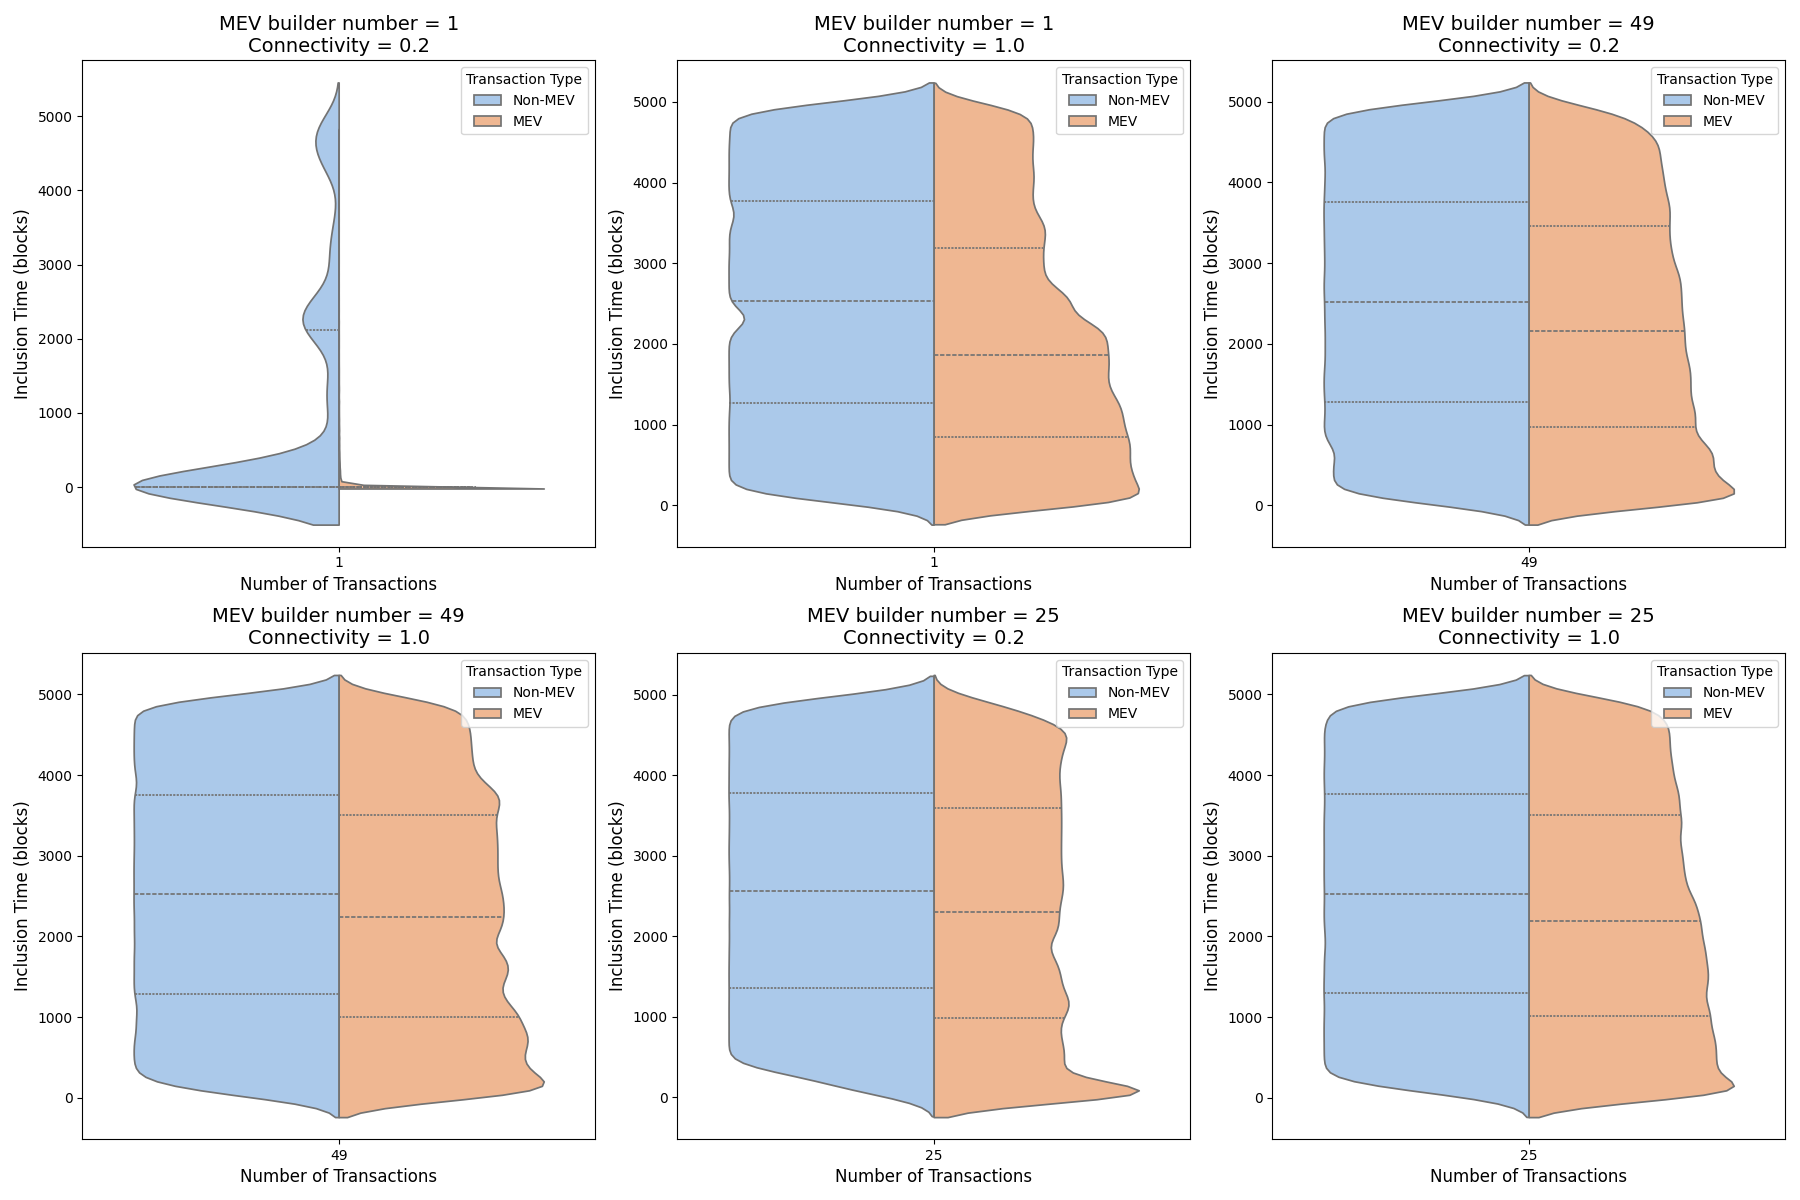
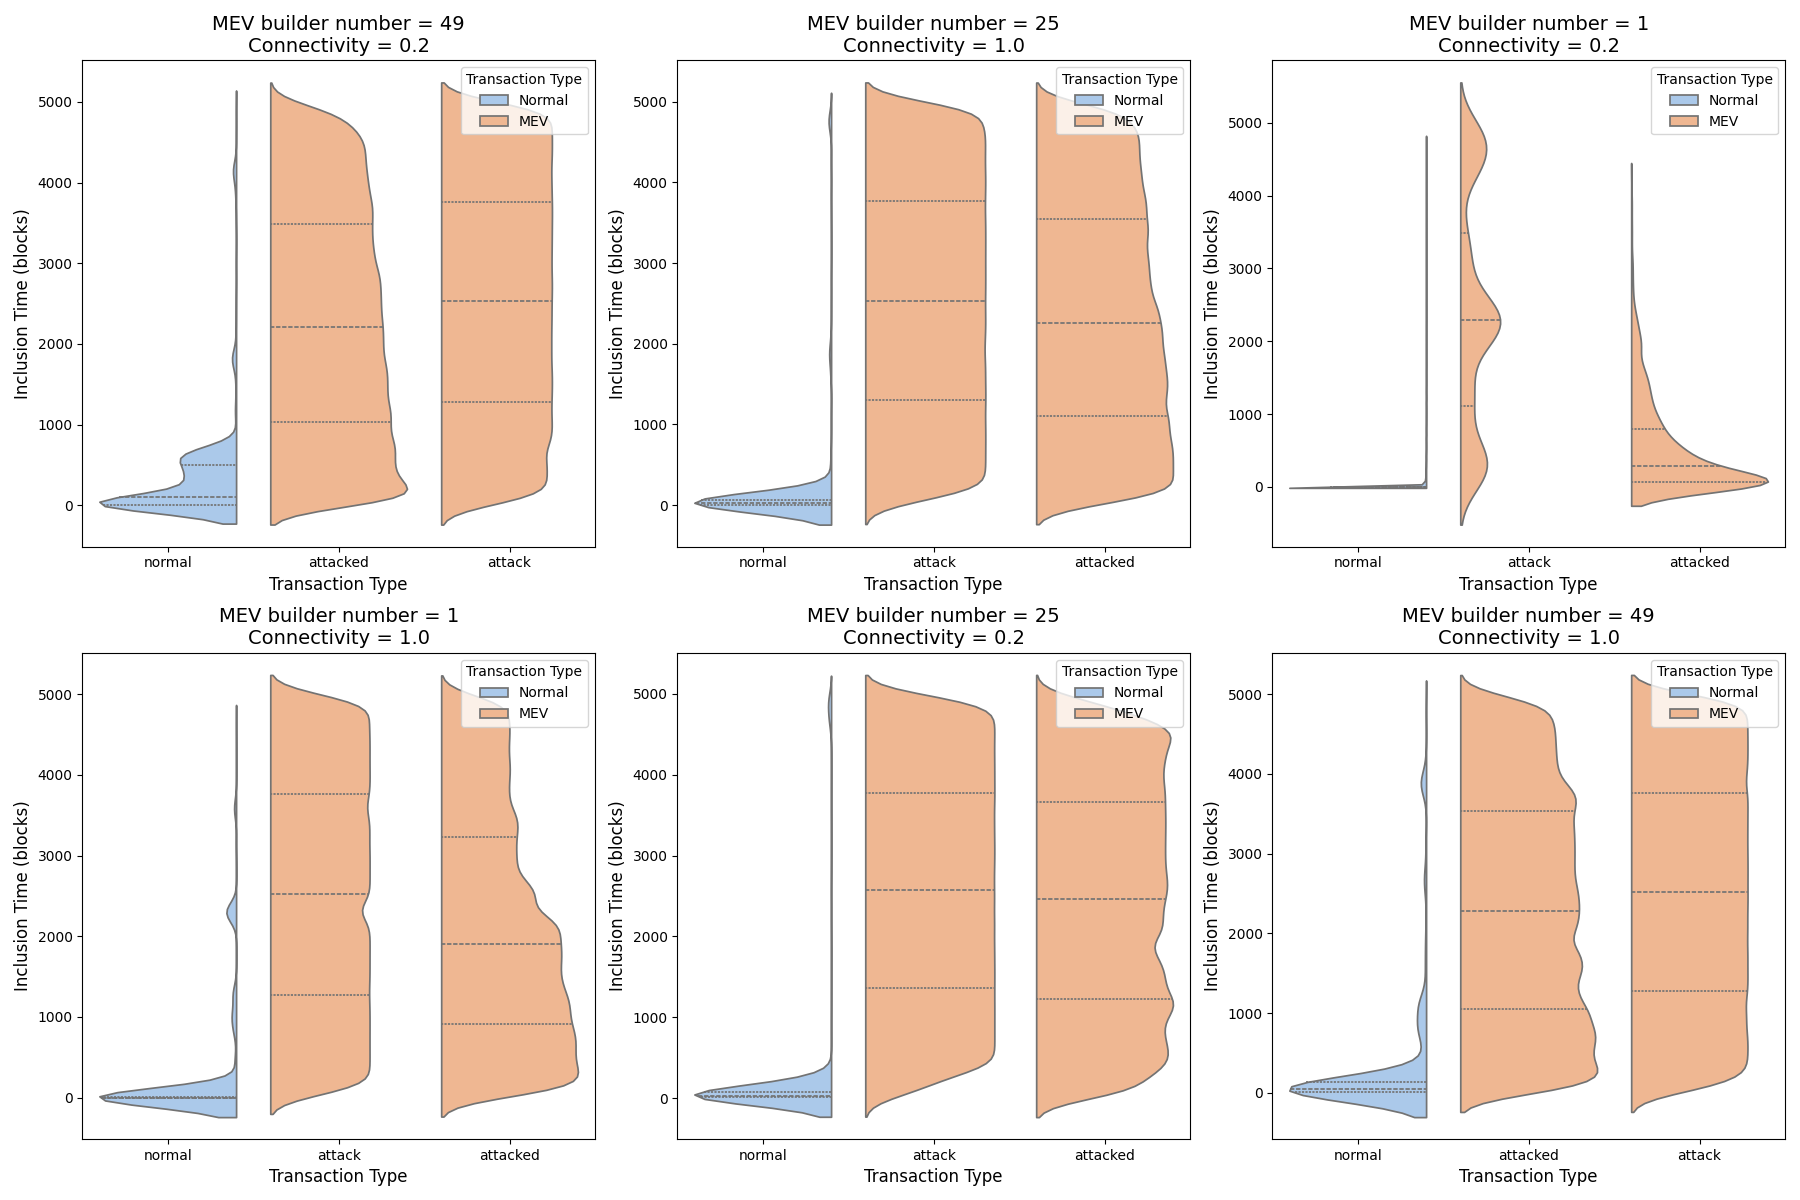
update

diff --git a/plots/tx_plot.py b/plots/tx_plot.py
@@ -6,7 +6,7 @@ from concurrent.futures import ProcessPoolExecutor, as_completed
 
 def load_csv(file_path):
     try:
-        return pd.read_csv(file_path, usecols=lambda column: column.startswith('transaction_id') or column.startswith('gas') or column.startswith('mev') or column.startswith('block_created') or column == 'block_index')
+        return pd.read_csv(file_path, usecols=lambda column: column.startswith('transaction_id') or column.startswith('gas') or column.startswith('mev') or column.startswith('block_created') or column == 'block_index' or column.startswith('transaction_type'))
     except Exception as e:
         print(f"Error loading {file_path}: {e}")
         return pd.DataFrame()
@@ -28,10 +28,11 @@ def reshape_data(data, mev_builders, connectivity):
         gas_col = f'gas.{i}'
         mev_col = f'mev.{i}'
         block_time_col = f'block_created.{i}'
+        trans_type_col = f'transaction_type.{i}'
 
-        if trans_id_col in data.columns:
-            subset = data[['block_index', trans_id_col, gas_col, mev_col, block_time_col]].dropna()
-            subset.columns = ['block_index', 'transaction_id', 'gas', 'mev', 'block_created']
+        if trans_id_col in data.columns and trans_type_col in data.columns:
+            subset = data[['block_index', trans_id_col, gas_col, mev_col, block_time_col, trans_type_col]].dropna()
+            subset.columns = ['block_index', 'transaction_id', 'gas', 'mev', 'block_created', 'transaction_type']
             subset['mev_builders'] = mev_builders
             subset['connectivity'] = connectivity
 
@@ -74,16 +75,16 @@ def process_files_in_parallel(file_paths):
 def plot_violin(data_dict, save_dir):
     plt.figure(figsize=(18, 12))
     for idx, (file_label, data) in enumerate(data_dict.items(), 1):
-        data['mev_exploited'] = data['mev'] > 0
+        data['mev_exploited'] = data['transaction_type'].isin(['attack', 'attacked'])
         plt.subplot(2, 3, idx)
-        sns.violinplot(data=data, x='mev_builders', y='inclusion_time', hue='mev_exploited', split=True, inner="quart", palette='pastel')
+        sns.violinplot(data=data, x='transaction_type', y='inclusion_time', hue='mev_exploited', split=True, inner="quart", palette='pastel')
         mev_builders = data['mev_builders'].iloc[0]
         connectivity = data['connectivity'].iloc[0]
         plt.title(f'MEV builder number = {mev_builders}\nConnectivity = {connectivity}', fontsize=14)
-        plt.xlabel('Number of Transactions', fontsize=12)
+        plt.xlabel('Transaction Type', fontsize=12)
         plt.ylabel('Inclusion Time (blocks)', fontsize=12)
         handles, labels = plt.gca().get_legend_handles_labels()
-        plt.legend(handles, ['Non-MEV', 'MEV'], title='Transaction Type', loc='upper right')
+        plt.legend(handles, ['Normal', 'MEV'], title='Transaction Type', loc='upper right')
     
     plt.tight_layout()
     plt.savefig(os.path.join(save_dir, 'inclusion_time_violin.png'))
@@ -94,15 +95,15 @@ def plot_scatter_mev(data_dict, save_dir, sample_fraction=0.1):
     axes = axes.flatten()
     for idx, (file_label, data) in enumerate(data_dict.items()):
         data_sample = data.sample(frac=sample_fraction, random_state=1)
-        data_sample['mev_exploited'] = data_sample['mev'] > 0
-        sns.scatterplot(data=data_sample, x='inclusion_time', y='mev', hue='mev_exploited', palette='pastel', alpha=0.6, ax=axes[idx])
+        data_sample = data_sample[data_sample['transaction_type'].isin(['attack', 'attacked'])]
+        sns.scatterplot(data=data_sample, x='inclusion_time', y='mev', hue='transaction_type', palette='pastel', alpha=0.6, ax=axes[idx])
         mev_builders = data_sample['mev_builders'].iloc[0]
         connectivity = data_sample['connectivity'].iloc[0]
         axes[idx].set_title(f'MEV builder number = {mev_builders}\nConnectivity = {connectivity}', fontsize=14)
         axes[idx].set_xlabel('Inclusion Time (blocks)', fontsize=12)
         axes[idx].set_ylabel('MEV Extracted', fontsize=12)
         handles, labels = axes[idx].get_legend_handles_labels()
-        axes[idx].legend(handles, ['Non-MEV', 'MEV'], title='Transaction Type', loc='upper right')
+        axes[idx].legend(handles, labels, title='Transaction Type', loc='upper right')
 
     plt.tight_layout()
     plt.savefig(os.path.join(save_dir, 'scatter_mev.png'))
@@ -113,15 +114,15 @@ def plot_scatter_gas(data_dict, save_dir, sample_fraction=0.1):
     axes = axes.flatten()
     for idx, (file_label, data) in enumerate(data_dict.items()):
         data_sample = data.sample(frac=sample_fraction, random_state=1)
-        data_sample['mev_exploited'] = data_sample['mev'] > 0
-        sns.scatterplot(data=data_sample, x='inclusion_time', y='gas', hue='mev_exploited', palette='pastel', alpha=0.6, ax=axes[idx])
+        data_sample = data_sample[data_sample['transaction_type'].isin(['attack', 'attacked'])]
+        sns.scatterplot(data=data_sample, x='inclusion_time', y='gas', hue='transaction_type', palette='pastel', alpha=0.6, ax=axes[idx])
         mev_builders = data_sample['mev_builders'].iloc[0]
         connectivity = data_sample['connectivity'].iloc[0]
         axes[idx].set_title(f'MEV builder number = {mev_builders}\nConnectivity = {connectivity}', fontsize=14)
         axes[idx].set_xlabel('Inclusion Time (blocks)', fontsize=12)
         axes[idx].set_ylabel('Gas Used', fontsize=12)
         handles, labels = axes[idx].get_legend_handles_labels()
-        axes[idx].legend(handles, ['Non-MEV', 'MEV'], title='Transaction Type', loc='upper right')
+        axes[idx].legend(handles, labels, title='Transaction Type', loc='upper right')
 
     plt.tight_layout()
     plt.savefig(os.path.join(save_dir, 'scatter_gas.png'))
@@ -143,6 +144,7 @@ def main():
         "mev_builders=49characteristic=1.csv"
     ]
 
+    # Sort the representative files based on MEV builders and connectivity
     representative_files.sort(key=lambda x: (int(x.split('=')[1].split('characteristic')[0]), float(x.split('=')[2].replace('.csv', ''))))
 
     file_paths = [os.path.join(folder_path, rep_file) for rep_file in representative_files]
